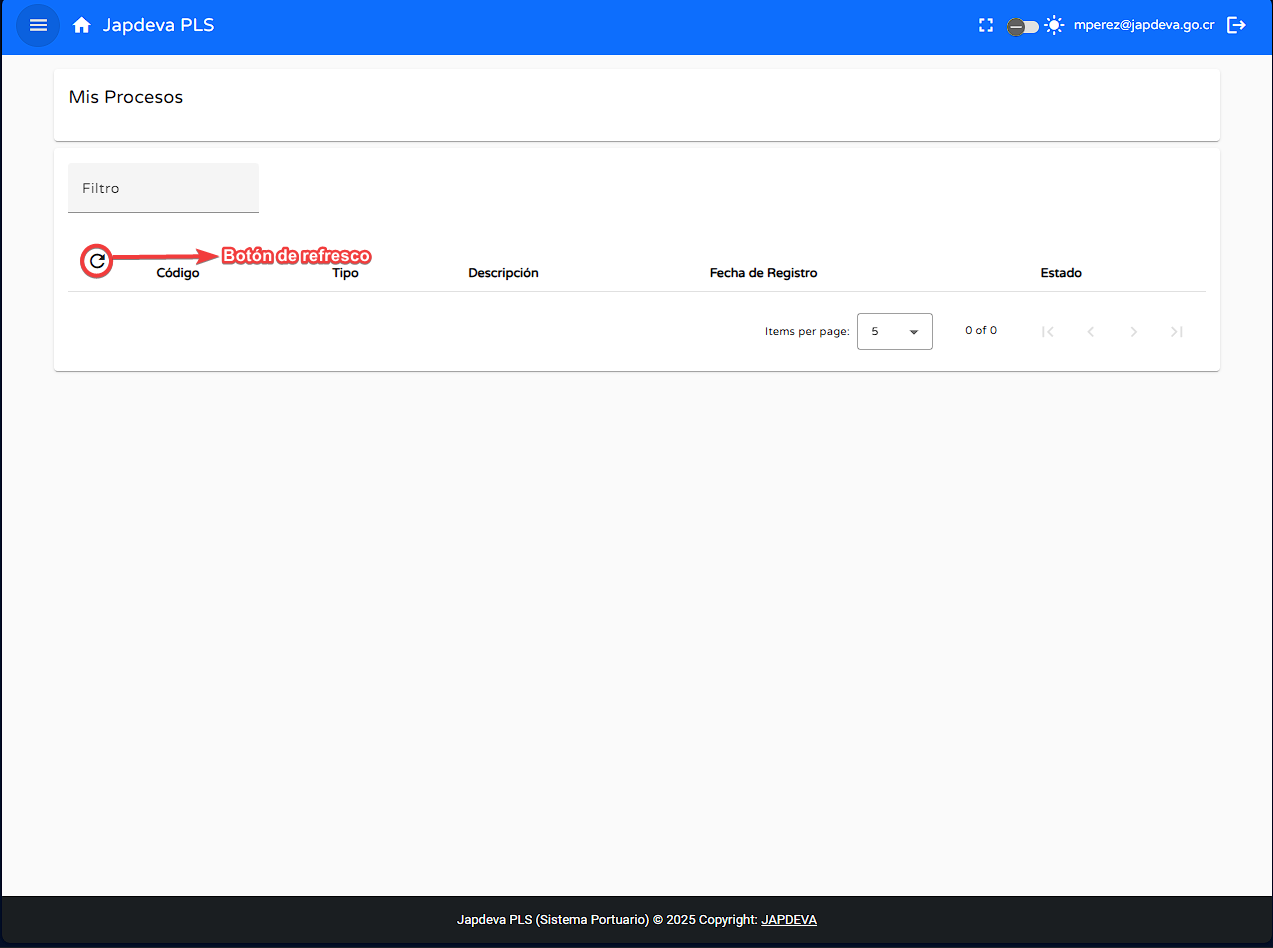
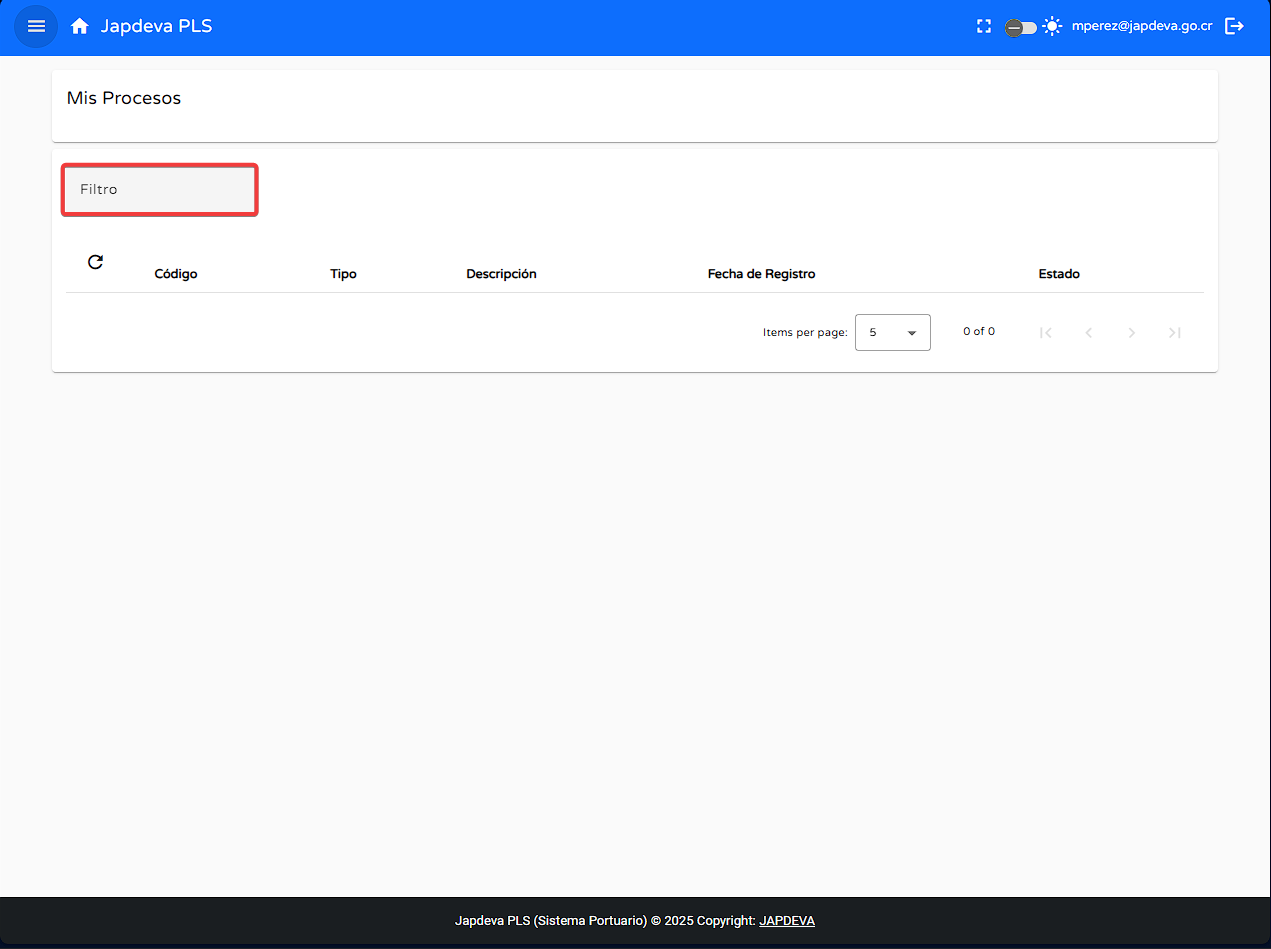
Modified user-guide-my-processes/Add user-guide-my-process-history-information/imgs

diff --git a/user-guide-my-process-history.html b/user-guide-my-process-history.html
@@ -4,7 +4,7 @@
 <head>
     <meta charset="UTF-8">
     <meta name="viewport" content="width=device-width, initial-scale=1.0">
-    <title>Guía de Usuario - Mis Procesos</title>
+    <title>Guía de Usuario - Historial de Procesos Usuario</title>
     <style>
         body {
             font-family: Arial, sans-serif;
@@ -87,8 +87,9 @@
 
 <body>
     <header>
-        <h1>Guía de Usuario - Mis Procesos</h1>
-        <p>Bienvenido a la guía de usuario para la pantalla <strong>Mis Procesos</strong> del sistema PLS. Esta guía
+        <h1>Guía de Usuario - Historial de Procesos Usuario</h1>
+        <p>Bienvenido a la guía de usuario para la pantalla <strong>Historial de Procesos Usuario</strong> del sistema
+            PLS. Esta guía
             está diseñada para ayudarte a utilizar y comprender de forma sencilla y directa las funcionalidades que
             ofrece esta pantalla.</p>
     </header>
@@ -104,10 +105,9 @@
 
     <section id="seccion1">
         <h2>1. Introducción</h2>
-        <p>Ubicada dentro del submenú <u>Procesos</u>, tiene como función principal reflejar todos los procesos activos
-            del usuario logueado, además de brindar opciones tanto de filtrado como de refresco para la información
-            presente.</p>
-        <img src="img/my-processesH/processes-0.png" alt="Pantalla de procesos">
+        <p>Ubicada dentro del submenú <u>Procesos</u>, tiene como función principal reflejar todos los procesos
+            finalizados en relación al usuario logueado, además de brindar opciones tanto de filtrado
+            como para refrescar la información.</p>
         <div class="consejo">
             <strong>Consejo:</strong> Esta guía está diseñada para ser leída en orden, pero puedes saltar a las
             secciones que necesites usando el menú de contenido.
@@ -123,8 +123,8 @@
             <p>Para realizar está función se debe hacer lo siguiente:</p>
             <ol>
                 <li>Colocar el cursor sobre el espacio en blanco en la esquina superior izquierda de la pantalla el cual
-                    presenta la leyenda <u>Filtro</u>.</li>
-                <img src="img/my-processes/processes-1.png" alt="Espacio filtro">
+                    presennta la leyenda <u>Filtro</u>.</li>
+                <img src="img/my-processes-history/my-processesH-0.png" alt="Pantalla historial procesos">
                 <li>Se debe de ingresar los criterios de búsqueda en relación a lo que se desea visualizar en la
                     pantalla.</li>
             </ol>
@@ -135,23 +135,23 @@
             <p>Para lograr esta función se debe hacer lo siguiente:</p>
             <ol>
                 <li>Ubicar el cursor sobre el botón de refrescar y presionar sobre él.</li>
-                <img src="img/my-processes/processes-2.png" alt="Botón refrescar">
+                <img src="img/my-processes-history/my-processesH-2.png" alt="Botón refrescar">
                 <li>Al momento de dar clic sobre este la información más reciente se reflejará en la pantalla de manera
                     automática.</li>
             </ol>
         </div>
         <div class="paso">
             <span class="numero-paso">3</span>
-            <h3>Visualización de información en pantalla Mis Procesos</h3>
+            <h3>Visualización de información en pantalla Historial de Procesos Usuario</h3>
             <p>Para brindar una experiencia confortable con nuestros usuarios a continuación se procederá a explicar
                 cada uno de los diversos campos presentes en la pantalla.</p>
             <ol>
                 <li><strong>Código: </strong>Identificador único del proceso ante el sistema.</li>
                 <li><strong>Tipo: </strong>Tipo de proceso realizado por el usuario.</li>
                 <li><strong>Descripción: </strong>Breve párrafo descriptivo del proceso realizado.</li>
-                <li><strong>Estado: </strong>Estado actual del proceso en este caso está pantalla solamente presenta los
-                    procesos activos del usuario conectado.</li>
-                <img src="img/my-processes/processes-3.png" alt="Información procesos">
+                <li><strong>Estado: </strong>Estado actual del proceso, en este caso el estado es <u>Finalizado</u>.
+                </li>
+                <img src="img/my-processes-history/my-processesH-3.png" alt="Información procesos historial">
             </ol>
         </div>
     </section>
@@ -168,7 +168,7 @@
 
     <footer>
         <p>© 2025 JAPDEVA. Todos los derechos reservados.</p>
-        <p>Versión de la guía: 1.0 | Última actualización: [10/09/2025]</p>
+        <p>Versión de la guía: 1.0 | Última actualización: [Fecha]</p>
     </footer>
 </body>
 
